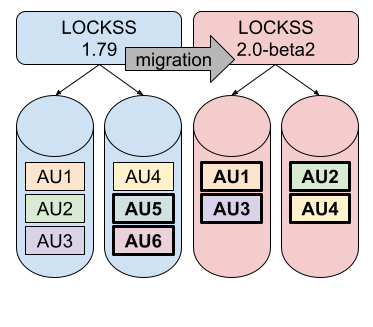
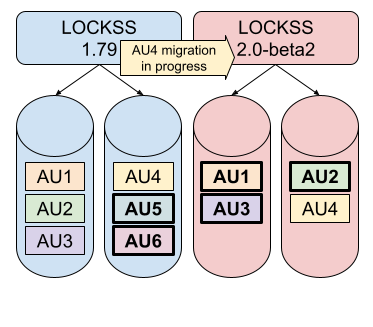
Revamp overview. (wip)

Changed region(s): [[0.3244, 0.0917, 0.6488, 0.2446], [0.7668, 0.581, 0.9437, 0.7034]]

diff --git a/docs/migration/overview.rst b/docs/migration/overview.rst
@@ -2,100 +2,92 @@
 Migration Overview
 ==================
 
-The different :ref:`Migration Scenarios <Migration Scenario>` follow the same overall outline:
+------------------------
+Basic Migration Overview
+------------------------
+
+Conceptually, migration from LOCKSS |UPGRADE_FROM_MINOR| to LOCKSS |UPGRADE_TO_MINOR| follows this outline:
 
 1. A pre-existing LOCKSS |UPGRADE_FROM_MINOR| instance is preserving content in one or more content storage areas (key [#fn-key]_):
 
    .. image:: laaws-migration-basic-before.png
       :align: center
+      :alt: Diagram showing a blue LOCKSS |UPGRADE_FROM_MINOR| box with arrows pointing at two blue disks representing its content storage areas. Boxes with bold labels "AU #1", "AU #2" and "AU #3" appear on the first blue disk, and boxes with bold labels "AU #4", "AU #5" and "AU #6" appear on the second blue disk. This illustrates that all AUs are handled by the LOCKSS |UPGRADE_FROM_MINOR| instance.
 
 2. An empty LOCKSS |UPGRADE_TO_MINOR| instance is configured with one or more content storage areas of its own (key [#fn-key]_):
 
    .. image:: laaws-migration-basic-start.png
       :align: center
+      :alt: Diagram showing a blue LOCKSS |UPGRADE_FROM_MINOR| box with arrows pointing at two blue disks representing its content storage areas, side by side with a red LOCKSS |UPGRADE_TO_MINOR| box with arrows pointing at two red disks representing its content storage areas. Boxes with bold labels "AU #1", "AU #2" and "AU #3" appear on the first blue disk, and boxes with bold labels "AU #4", "AU #5" and "AU #6" appear on the second blue disk. Nothing appears on the red disks. This illustrates that all AUs are handled by the LOCKSS |UPGRADE_FROM_MINOR| instance and that the LOCKSS |UPGRADE_TO_MINOR| instance is empty.
 
-3. The LOCKSS Migrator sets up and executes the migration. Gradually, the LOCKSS |UPGRADE_TO_MINOR| instance is populated with the data from the LOCKSS |UPGRADE_FROM_MINOR| instance. The contents of each archival unit (AU) [#fn-au]_ are copied to the LOCKSS |UPGRADE_TO_MINOR| instance; the AU then becomes deactivated in the LOCKSS |UPGRADE_FROM_MINOR| instance and continues its life in the LOCKSS |UPGRADE_TO_MINOR| instance (key [#fn-key]_):
+3. The LOCKSS migrator sets up and executes the migration, and the LOCKSS |UPGRADE_TO_MINOR| instance is gradually populated with the data from the LOCKSS |UPGRADE_FROM_MINOR| instance. Each archival unit (AU) [#fn-au]_ becomes deactivated in the LOCKSS |UPGRADE_FROM_MINOR| instance; then its contents are copied to the LOCKSS |UPGRADE_TO_MINOR| instance; finally the AU is reactivated in the LOCKSS |UPGRADE_TO_MINOR| instance (key [#fn-key]_):
 
    .. image:: laaws-migration-basic-middle.png
       :align: center
+      :alt: Diagram showing a blue LOCKSS |UPGRADE_FROM_MINOR| box with arrows pointing at two blue disks representing its content storage areas, side by side with a red LOCKSS |UPGRADE_TO_MINOR| box with arrows pointing at two red disks representing its content storage areas. A box with a non-bold label "AU #1" appears on the first blue disk, and a corresponding box with a bold label "AU #1" appears on the first red disk. A box with a non-bold label "AU #2" appears on the first blue disk, and a corresponding box with a bold label "AU #2" appears on the second red disk. A box with a non-bold label "AU #3" appears on the first blue disk, and a corresponding box with a bold label "AU #3" appears on the first red disk. A box with a non-bold label "AU #4" appears on the second blue disk, and another corresponding box with a non-bold label "AU #4" appears on the second red disk; additionally, an arrow with the text "AU #4 migration in progress" goes from the LOCKSS |UPGRADE_FROM_MINOR| box to the LOCKSS |UPGRADE_TO_MINOR| box. Boxes with bold labels "AU #5" and "AU #6" appear on the second blue disk, with no corresponding boxes appearing on the red disks. AU #1, AU #2 and AU #3 illustrate AUs that have been migrated; they are no longer handled by the LOCKSS |UPGRADE_FROM_MINOR| instance but still occupy disk space, and they are handled by the the LOCKSS |UPGRADE_TO_MINOR| instance. AU #4 illustrates a migration in progress; it is not handled by either instance. AU #5 and AU #6 illustrate AUs that have not yet been migrated; they are handled by the LOCKSS |UPGRADE_FROM_MINOR| instance, and do not yet occupy any disk space associated with the LOCKSS |UPGRADE_TO_MINOR| instance. The diagram also illustrates that corresponding AUs may not be distributed the same way on the blue disks and the red disks.
 
-4. At the end of the migration process, the LOCKSS |UPGRADE_FROM_MINOR| instance is not handling any AUs and all AUs are handled by the LOCKSS |UPGRADE_TO_MINOR| instance (key [#fn-key]_):
+4. At the end of the migration process, the LOCKSS |UPGRADE_TO_MINOR| instance is handling all AUs, and the LOCKSS |UPGRADE_FROM_MINOR| instance is no longer handling any AUs (key [#fn-key]_):
 
    .. image:: laaws-migration-basic-end.png
       :align: center
+      :alt: Diagram showing a blue LOCKSS |UPGRADE_FROM_MINOR| box with arrows pointing at two blue disks representing its content storage areas, side by side with a red LOCKSS |UPGRADE_TO_MINOR| box with arrows pointing at two red disks representing its content storage areas. Boxes with non-bold labels "AU #1", "AU #2" and "AU #3" appear on the first blue disk, and boxes with non-bold labels "AU #4", "AU #5" and "AU #6" appear on the second blue disk. Boxes with bold labels "AU #1", "AU #3" and "AU #5" appear on the first red disk, and boxes with bold labels "AU #2", "AU #4" and "AU #6" appear on the second red disk. This illustrates that all AUs are handled by the LOCKSS |UPGRADE_TO_MINOR| instance and that the LOCKSS |UPGRADE_TO_MINOR| instance is no longer handling any AUs, although the disk space used by the AUs formerly is still occupied.
 
 5. Finally, the LOCKSS |UPGRADE_FROM_MINOR| instance is decommissioned (key [#fn-key]_):
 
    .. image:: laaws-migration-basic-after.png
       :align: center
+      :alt: Diagram showing a red LOCKSS |UPGRADE_TO_MINOR| box with arrows pointing at two red disks representing its content storage areas. Boxes with bold labels "AU #1", "AU #3" and "AU #5" appear on the first red disk, and boxes with bold labels "AU #2", "AU #4" and "AU #6" appear on the second red disk. This illustrates that all AUs are handled by the LOCKSS |UPGRADE_TO_MINOR| instance.
 
-The different :ref:`Migration Scenarios <Migration Scenario>` differ in the details of where the LOCKSS |UPGRADE_TO_MINOR| instance is compared to the LOCKSS |UPGRADE_FROM_MINOR| instance, and when the storage space occupied by deactivated AUs from the LOCKSS |UPGRADE_FROM_MINOR| instance is reclaimed.
+The different :ref:`Migration Scenarios <Migration Scenario>` differ only in two key ways: where the LOCKSS |UPGRADE_TO_MINOR| instance is located compared to the LOCKSS |UPGRADE_FROM_MINOR| instance, and when the storage space occupied by deactivated AUs from the LOCKSS |UPGRADE_FROM_MINOR| instance is reclaimed.
 
 ------------------
 Migration Scenario
 ------------------
 
-.. |NEWHOSTMIGRATION| replace:: In this migration scenario, a brand-new host (physical or virtual) is commissioned for the LOCKSS |UPGRADE_TO_MINOR| instance, and once the migration is complete, the LOCKSS |UPGRADE_FROM_MINOR| instance and its pre-existing host are both decommissioned.
+.. |NEWHOSTMIGRATION| replace:: In this migration scenario, a newly-commissioned host with its own storage is used for the LOCKSS |UPGRADE_TO_MINOR| instance. After migration, the LOCKSS |UPGRADE_FROM_MINOR| instance, its storage, and its host are decommissioned.
 
-.. |SAMEHOSTMIGRATION| replace:: In this migration scenario, the LOCKSS |UPGRADE_TO_MINOR| instance is run on the pre-existing host of the LOCKSS |UPGRADE_FROM_MINOR| instance, and once the migration is complete, the LOCKSS |UPGRADE_FROM_MINOR| instance is decommissioned.
+.. |SAMEHOSTMIGRATION| replace:: In this migration scenario, the LOCKSS |UPGRADE_TO_MINOR| instance is run on the pre-existing host of the LOCKSS |UPGRADE_FROM_MINOR| instance. After migration, the LOCKSS |UPGRADE_FROM_MINOR| instance is decommissioned.
 
-There are two migration scenarios:
+.. |SAMEHOSTMIGRATIONFUTURE| replace:: In this :ref:`Same-Host Migration` scenario, the LOCKSS |UPGRADE_TO_MINOR| instance is configured to use different storage areas than the LOCKSS |UPGRADE_FROM_MINOR| instance. After migration, the LOCKSS |UPGRADE_FROM_MINOR| instance's storage areas are reclaimed all at once, and can then be devoted to the LOCKSS |UPGRADE_TO_MINOR| instance.
+
+.. |SAMEHOSTMIGRATIONINCREMENTAL| replace:: In this :ref:`Same-Host Migration` scenario, the LOCKSS |UPGRADE_TO_MINOR| instance is configured to use the same storage areas as the LOCKSS |UPGRADE_FROM_MINOR| instance. The LOCKSS Migrator is operated in a special mode in which the storage used by each AU in the LOCKSS |UPGRADE_FROM_MINOR| instance is reclaimed after the AU is done migrating to the LOCKSS |UPGRADE_TO_MINOR| instance.
 
 *  :ref:`New-Host Migration` (**recommended**). |NEWHOSTMIGRATION|
 
-*  :ref:`Same-Host Migration` (available if a new-host migration is not feasible). |SAMEHOSTMIGRATION| Preferably, there is enough storage space on the pre-existing host to hold a full LOCKSS |UPGRADE_FROM_MINOR| instance and a full LOCKSS |UPGRADE_TO_MINOR| instance simultaneously (:ref:`Same-Host Migration With Future Reclamation`), otherwise storage space must be reclaimed incrementally (:ref:`Same-Host Migration With Incremental Reclamation`).
+*  :ref:`Same-Host Migration` (*if a new-host migration is not feasible*). |SAMEHOSTMIGRATION| This scenario has two subtypes:
+
+   *  :ref:`Same-Host Migration With Future Reclamation` (*preferable if a same-host migration is needed*). |SAMEHOSTMIGRATIONFUTURE|
+
+   *  :ref:`Same-Host Migration With Incremental Reclamation` (*if a same-host migration is needed but a same-host migration with future reclamation is not feasible*). |SAMEHOSTMIGRATIONINCREMENTAL|
+
+New-Host Migration
+==================
 
 FIXME
 
-----
+.. image:: laaws-migration-new-host-overview.png
+   :align: center
 
-.. tab-set::
+Same-Host Migration
+===================
 
-   .. tab-item:: New-Host Migration (Recommended)
-      :sync: newhost
+FIXME
 
-      In a **new-host migration** scenario, you will upgrade your existing LOCKSS 1.x host to LOCKSS |UPGRADE_FROM_PATCH|, and install LOCKSS |UPGRADE_TO_PATCH| **on a brand-new physical or virtual host**.
+Same-Host Migration With Future Reclamation
+-------------------------------------------
 
-      In this scenario, your LOCKSS 1.x host and LOCKSS 2.x host are different, and eventually, your LOCKSS 1.x host becomes decommissioned. Ideally, your LOCKSS 2.x host then adopts the IP address and host name used by your former LOCKSS 1.x host.
+FIXME
 
-      Before a **new-host migration**, the outside world interacts with your institution's LOCKSS node by the IP address and host name of your existing LOCKSS 1.x host, and you install an empty LOCKSS 2.x instance on a new host with a temporary IP address and host name:
+.. image:: laaws-migration-same-host-future-overview.png
+   :align: center
 
-      .. image:: laaws-migration-new-host-before-960x480.png
-         :align: center
+Same-Host Migration With Incremental Reclamation
+------------------------------------------------
 
-      During a **new-host migration**, data is progressively migrated from the LOCKSS 1.x host to the LOCKSS 2.x host; the outside world continues to interact with your LOCKSS 1.x node, but the latter brokers traffic to and from the LOCKSS 2.x node where appropriate:
+FIXME
 
-      .. image:: laaws-migration-new-host-during-960x480.png
-         :align: center
-
-      After a **new-host migration**, your LOCKSS 1.x host is decommissioned, and your LOCKSS 2.x host is reconfigured to adopt the IP address and host name of your former LOCKSS 1.x host; the outside world then interacts with your LOCKSS node under its previously known IP address and host name:
-
-      .. image:: laaws-migration-new-host-after-960x480.png
-         :align: center
-
-   .. tab-item:: Same-Host Migration
-      :sync: samehost
-
-      In a **same-host migration** scenario, you will upgrade your existing LOCKSS 1.x host to LOCKSS |UPGRADE_FROM_PATCH|, and install LOCKSS |UPGRADE_TO_PATCH| **on the same host**.
-
-      In this scenario, your LOCKSS 1.x and your LOCKSS 2.x host are actually one and the same. Throughout a **same-host migration**, the outside world interacts with your LOCKSS node at its existing IP address and host name by talking to the LOCKSS 1.x instance; only at the end is the LOCKSS 1.x instance decommissioned and the outside world begins talking to the LOCKSS 2.x instance instead.
-
-      Before a **same-host migration**, you will install an empty LOCKSS 2.x instance alongside your LOCKSS 1.x instance on your LOCKSS node:
-
-      .. image:: laaws-migration-same-host-before-960x480.png
-         :align: center
-
-      During a **same-host migration**, data is progressively migrated from the LOCKSS 1.x instance to the LOCKSS 2.x instance; the outside world continues to interact with your LOCKSS 1.x instance, but the latter brokers traffic to and from the LOCKSS 2.x instance where appropriate:
-
-      .. image:: laaws-migration-same-host-during-960x480.png
-         :align: center
-
-      After a **same-host migration**, your LOCKSS 1.x instance is decommissioned, and the outside world then interacts with your LOCKSS node by talking to the LOCKSS 2.x instance:
-
-      .. image:: laaws-migration-same-host-after-960x480.png
-         :align: center
-
-.. _new-host-recommended:
+.. image:: laaws-migration-same-host-incremental-overview.png
+   :align: center
 
 .. admonition:: Why is a new host recommended?
 
@@ -107,9 +99,9 @@ FIXME
 
    *  If your LOCKSS 1.x host is running an outdated operating system such as CentOS 7, you would have to upgrade the OS before proceeding with a same-host migration.
 
----------------------------------
-Overview of the Migration Process
----------------------------------
+---------------------------
+Detailed Migration Overview
+---------------------------
 
 .. sidebar:: TL;DR
 
@@ -141,7 +133,7 @@ If you have set any configuration parameters in the Expert Config screen, this f
 
 .. [#fn-key]
 
-   Key for the diagrams in :numref:`Migration Overview` (:ref:`Migration Overview`):
+   Key for the diagrams in :numref:`Basic Migration Overview` (:ref:`Basic Migration Overview`):
 
    .. image:: laaws-migration-basic-key.png
 